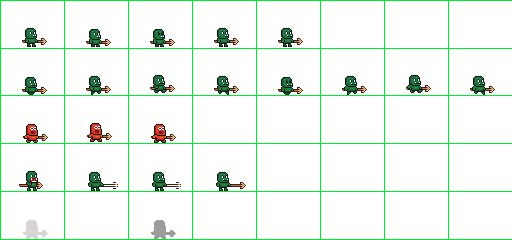
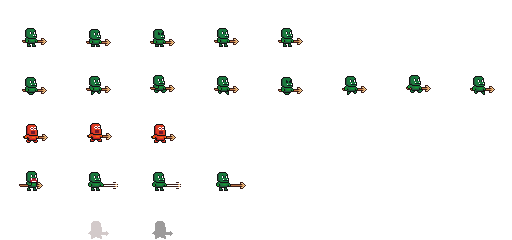
added exit phase in killing the enemy

diff --git a/src/features/Battle/configs/spritesheetConfig.ts b/src/features/Battle/configs/spritesheetConfig.ts
@@ -1,9 +1,9 @@
 export type EnemyType = 'evil_shogun' | 'orc' | 'skeleton' | 'orc_lord' | 'pig_lord' | 'skeleton_lord' | 'pig' | 'dark_knight';
 export type CharacterType = EnemyType | "player";
 
-export type BaseAnimationState = 'idle' | 'hurt' | 'walk';
+export type BaseAnimationState = 'idle' | 'hurt' | 'walk' | 'death';
 export type EnemyAnimationState = BaseAnimationState | 'attack';
-export type PlayerAnimationState = BaseAnimationState | 'attack_1' | 'attack_2' | 'attack_3';
+export type PlayerAnimationState = BaseAnimationState | 'attack_1' | 'attack_2' | 'attack_3' | 'celebrate';
 
 export type AnimationConfig = {
   frameCount: number;
@@ -41,7 +41,8 @@ export const baseEnemyAnimationConfig: EnemyAnimations = {
     idle: { frameCount: 2, fps: 3, row: 0 },
     walk: { frameCount: 8, fps: 10, row: 1 },
     hurt: { frameCount: 3, fps: 10, row: 2 },
-    attack: { frameCount: 4, fps: 10, row: 3 }  
+    attack: { frameCount: 4, fps: 10, row: 3 },
+    death:{ frameCount: 5, fps: 10, row: 2  },  
 };
 
 export const enemyAnimationOverrides: EnemyAnimationOverridesMap = {
@@ -66,9 +67,11 @@ export const basePlayerAnimationConfig: PlayerAnimations = {
   idle: { frameCount: 6, fps: 8, row: 0 },
   walk: { frameCount: 6, fps: 8, row: 1 },
   hurt: { frameCount: 4, fps: 7, row: 10 },
+  death: { frameCount: 8, fps: 12, row: 11 },
   attack_1: { frameCount: 7, fps: 16, row: 5 },
   attack_2: { frameCount: 7, fps: 16, row: 6 },
   attack_3: { frameCount: 7, fps: 16, row: 7 },
+  celebrate: { frameCount: 4, fps: 16, row: 3 },
 };
 
 // NEW: Player-specific overrides based on class

diff --git a/src/features/Battle/battleEngine/animationSteps/playerCelebrate.ts b/src/features/Battle/battleEngine/animationSteps/playerCelebrate.ts
@@ -1,0 +1,40 @@
+import { BattleStepFn } from "../types";
+
+export const playerCelebrate: BattleStepFn = ({
+    next,
+    setPlayerAction,
+    setPlayerPosX,
+    setPlayerLoop,
+    adjustZValues
+}) => {
+    adjustZValues("player");
+    setPlayerAction("celebrate");
+    setPlayerLoop(true);
+    const exitPosX = 48 * 5
+    let exitReached = false;
+
+    let walkInterval: number;
+    let transitionDelay: number;
+
+    walkInterval = window.setInterval(() => {
+        setPlayerPosX((prev) => {
+            if (prev >= exitPosX) {
+                exitReached = true;
+                return exitPosX;
+            }
+            return prev + 6; 
+        });
+
+        if (exitReached) {
+            setPlayerPosX(0)
+            setPlayerAction("idle")
+            next()
+        }
+        
+    }
+    , 50);
+
+    return () => {
+        clearInterval(walkInterval);
+    }
+}

diff --git a/src/features/Battle/battleEngine/animationSteps/enemyDeath.ts b/src/features/Battle/battleEngine/animationSteps/enemyDeath.ts
@@ -1,0 +1,32 @@
+import startKnockback from "../../utils/startKnockback";
+import { BattleStepFn } from "../types";
+
+export const enemyDeath: BattleStepFn = ({
+    next,
+    setPlayerLoop,
+    setPlayerAction,
+    setEnemyAction,
+    setEnemyLoop,
+    getEnemyPosX,
+    setEnemyPosX
+}) => {
+    setPlayerLoop(true);
+    setEnemyAction('death');
+    setPlayerAction('idle');
+    setEnemyLoop(false);
+    let cleanup: (() => void) | undefined;
+
+    cleanup = startKnockback({
+        fromX: getEnemyPosX(),
+        setX: setEnemyPosX,
+        direction: 'right',
+        knockbackDmg: 30,
+        onDone: () => next(),
+    });
+
+    return () => {
+        if (cleanup) {
+            cleanup();
+        }
+    };
+}

diff --git a/src/features/Battle/battleEngine/scenes/killEnemy/killEnemySequence.ts b/src/features/Battle/battleEngine/scenes/killEnemy/killEnemySequence.ts
@@ -5,6 +5,8 @@ import { BattleStepFn } from '../../types';
 import { playerPunchCharge } from './playerPunchCharge';
 import { enemyHurtWeak } from '../../animationSteps/enemyHurtWeak';
 import { playerSwordAttack1 } from '../../animationSteps/playerSwordAttack1';
+import { enemyDeath } from '../../animationSteps/enemyDeath';
+import { playerCelebrate } from '../../animationSteps/playerCelebrate';
 
 export const killEnemySequence: BattleStepFn[] = [
 	placeEnemyMiddle,
@@ -13,5 +15,6 @@ export const killEnemySequence: BattleStepFn[] = [
 	enemyHurtWeak,
 	playerSwordAttack2,
 	playerSwordAttack1,
-	enemyHurtWeak
+	enemyDeath,
+	playerCelebrate,
 ];

diff --git a/src/features/Battle/components/BattleArena.tsx b/src/features/Battle/components/BattleArena.tsx
@@ -40,9 +40,7 @@ export const BattleArena = ({
 
 	return (
 		<div
-			className={`flex flex-col w-[280px] items-center gap-4 ${
-				customSceneActiveRef.current ? 'border' : ''
-			}`}
+			className={`flex flex-col w-[280px] items-center gap-4`}
 		>
 			<div className="flex relative w-full h-[200px] overflow-hidden ">
 				<div className="absolute top-5 left-1/2 -translate-x-1/2">

diff --git a/src/features/Battle/battleEngine/useBattleEngine.ts b/src/features/Battle/battleEngine/useBattleEngine.ts
@@ -62,7 +62,7 @@ export const useBattleEngine = (steps: BattleStepFn[]) => {
   };
 
   const queueCustomScene = (sceneSteps: BattleStepFn[]) => {
-    if (customSceneActiveRef.current) return; // 👈 prevent spamming
+    if (customSceneActiveRef.current) return; 
     cleanupRef.current?.();
     setCustomSceneActive(true);
     setCurrentSteps(sceneSteps);

diff --git a/src/features/Battle/battleEngine/scenes/killEnemy/playerPunchCharge.ts b/src/features/Battle/battleEngine/scenes/killEnemy/playerPunchCharge.ts
@@ -9,6 +9,7 @@ export const playerPunchCharge: BattleStepFn = ({
     setPlayerPosX,
     adjustZValues
 }) => {
+    setPlayerPosX(0)
     adjustZValues("player")
     setPlayerAction('attack_3');
     setPlayerLoop(true);

diff --git a/src/features/Battle/battleEngine/animationSteps/playerSwordAttack1.ts b/src/features/Battle/battleEngine/animationSteps/playerSwordAttack1.ts
@@ -14,7 +14,6 @@ export const playerSwordAttack1: BattleStepFn = ({
     setPlayerLoop(false);
 
     const cleanup = setTimeout(() => {
-        setPlayerAction('idle');
         next()
     }, 350);
     
